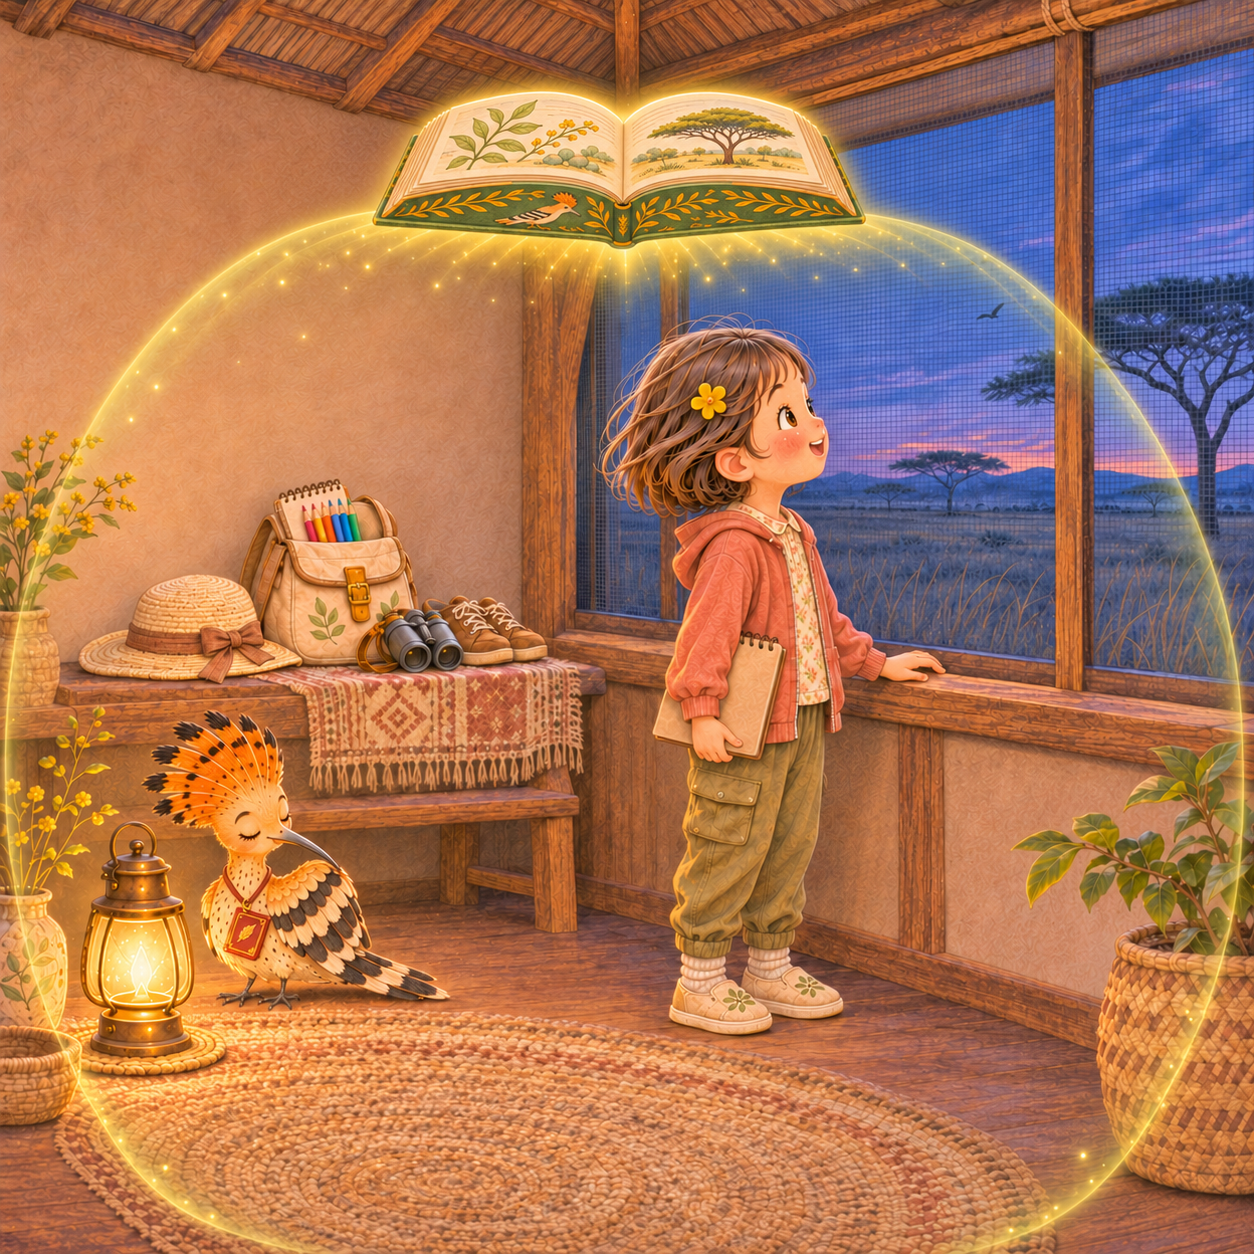
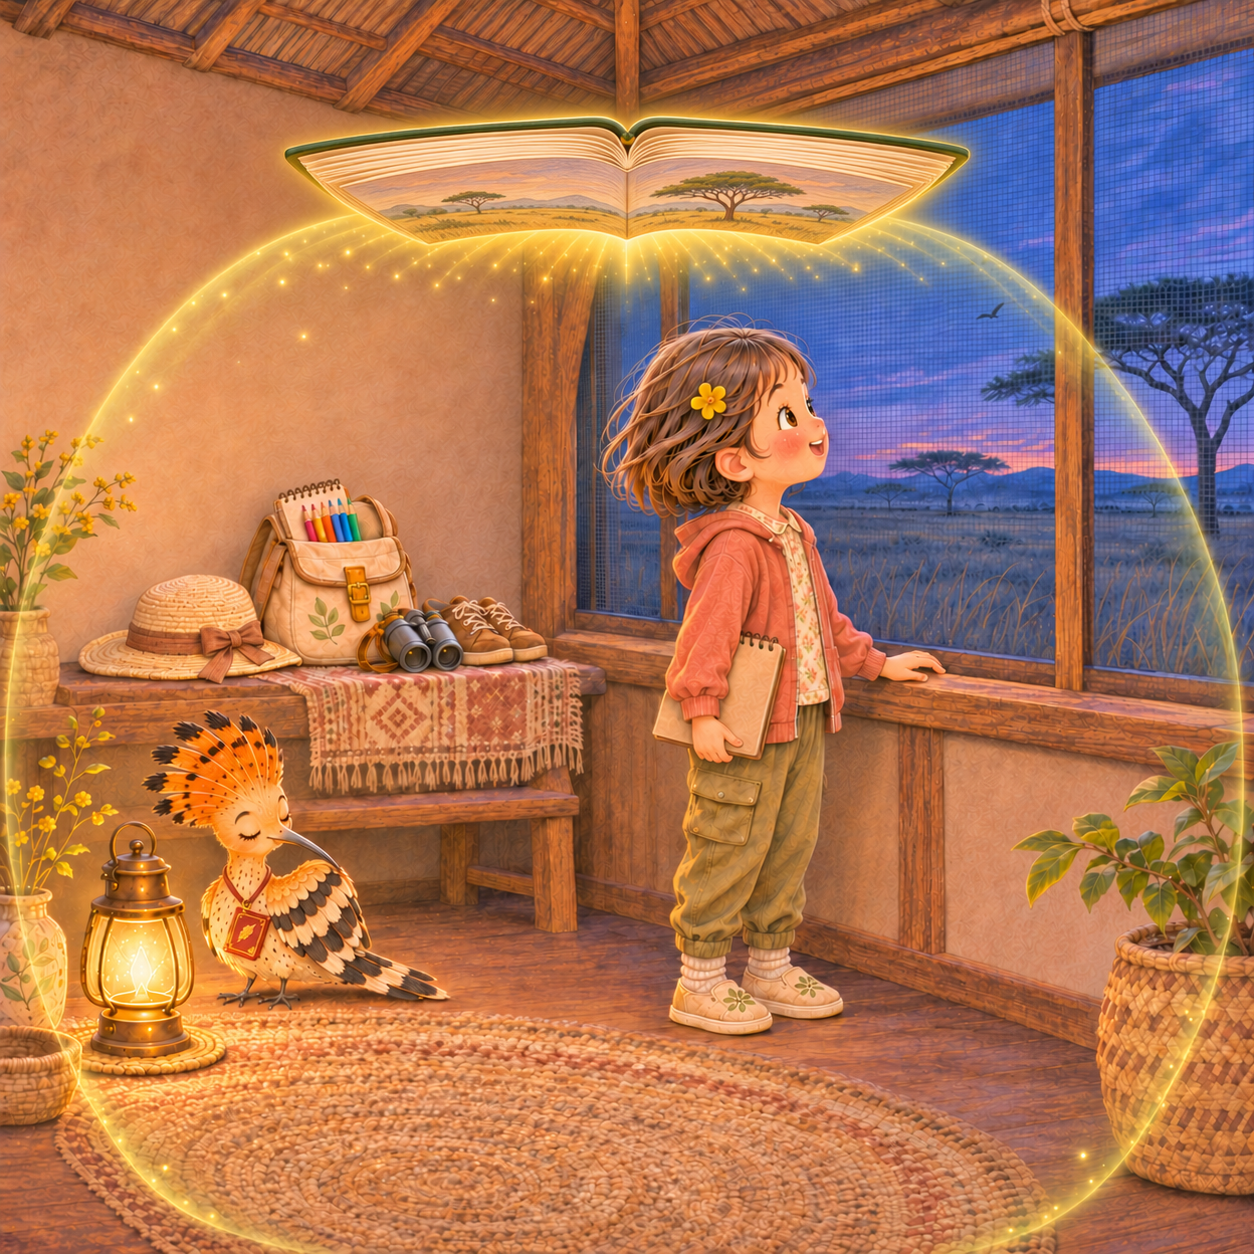
修正草原夜景魔法书透视

diff --git a/非洲草原绘本/制图剧本.md b/非洲草原绘本/制图剧本.md
@@ -31,7 +31,7 @@
 
 - **小满：** 5岁，沿用已确认的短黑褐发、圆润脸型、棕眼和儿童比例。浅棕色双肩布包里有笔记本、彩铅、饮水瓶、薄珊瑚色开衫和轻便室内鞋；本次增加一副儿童使用的轻便望远镜，挂带收束，不缠手腕和颈部。魔法书只在赶路时载着她，乘坐时坐稳在左右对称展开的书页中央；到达观察点后下到安全地面，魔法书缩小、收拢或停在身边，不让她站在书上观察动物。
 - **羽羽：** 金棕色戴胜鸟书精灵，细长微下弯黑喙、黑尖扇形羽冠、黑白横斑翅膀、书签状尾羽；细颈绳上的砖红金边羽叶纹小书挂件保持连续。羽羽是随书同行的角色，不充当草原所有野生鸟类的替身。她负责讲解和调整书签方向：草原小百科的知识由她讲给小满听，讲解时停在书页边、书脊或笔记本旁，用喙指点，长篇知识不连续倾倒。
-- **魔法书：** 同一本旧绿皮自然百科，可按需要自由改变大小。赶路时放大并平稳低飞，小满坐在中央；到达观察点后落稳，小满下到安全地面，书缩小或收拢，不充当持续观察台。所有展开状态都必须左右两部分等宽、等厚、角度对称，中间书槽清楚，不能一边大一边小或一边翘成单翼。白天赶路和观察不出现保护光罩。夜间P31—P35，魔法书放大后飞到休息室上方，对称展开并生成柔和、半透明的金绿色光罩，覆盖小满和羽羽；亮光收在罩内，不照射或惊扰野生动物。
+- **魔法书：** 同一本旧绿皮自然百科，可按需要自由改变大小。赶路时放大并平稳低飞，小满坐在中央；到达观察点后落稳，小满下到安全地面，书缩小或收拢，不充当持续观察台。所有展开状态都必须左右两部分等宽、等厚、角度对称，中间书槽清楚，不能一边大一边小或一边翘成单翼。白天赶路和观察不出现保护光罩。夜间P31—P35，魔法书放大后飞到休息室上方，近水平地倒悬展开，内页朝向下方的小满和羽羽，再从朝下的书槽与页缘生成柔和、半透明的金绿色光罩。儿童高度镜头只能看到有明显透视压缩的朝下内页；页内图画必须贴合左右纸面分别旋转、缩短和弯曲，不能像正对镜头的平面图标。绿色封皮位于页块背面，亮光收在罩内，不照射或惊扰野生动物。
 - **自然百科：** 旧绿皮、厚米白书页、叶形书签。P2出现纸上脚印与发光小路，带人物抵达草原营地；普通探索页仍为真实草原。书在P3、P13、P22和P30承担赶路，在P31—P35飞到室内上方生成夜间保护光罩；其余观察页缩小、收拢或安静停在人物身边。P36在营地收好笔记后，经书页绿光返回图书馆。
 - **观察设施：** 水塘远侧有固定观察屋，营地有封闭休息室和纱窗。魔法书在屋旁落稳，小满进入设施；不让小满无缘无故出现在野生动物身旁。
 
@@ -558,7 +558,7 @@
 
 **图内标题：** 第四章／草原没有睡着
 
-**画面建议：** 营地封闭休息室内，小满披上从布包中取出的薄珊瑚色开衫，换上轻便室内鞋，在纱窗前望向日落后的草原。魔法书改变大小，飞到室内上方，左右两部分等宽等厚、角度对称地展开，由上方向下生成半透明金绿色保护光罩，覆盖小满和羽羽；亮光收在罩内，不射向窗外。顶灯调暗，小灯放在室内矮桌，羽羽停在灯旁理着羽冠。天空从暖色渐转蓝紫，不将这一页画成白昼。室外只有草影和少量树影，不安排大型动物贴着窗子。
+**画面建议：** 营地封闭休息室内，小满披上从布包中取出的薄珊瑚色开衫，换上轻便室内鞋，在纱窗前望向日落后的草原。魔法书改变大小，飞到室内上方，近水平地倒悬并左右对称展开：内页朝下，左右页块等宽等厚、角度对称，中央书槽居中，绿色封皮位于页块背面。儿童高度仰视只能看见经过透视压缩的朝下内页，页内自然图画贴合各自纸面透视，不能正面朝向镜头。半透明金绿色保护光罩从朝下的书槽与页缘向下展开，覆盖小满和羽羽；亮光收在罩内，不射向窗外。顶灯调暗，小灯放在室内矮桌，羽羽停在灯旁理着羽冠。天空从暖色渐转蓝紫，不将这一页画成白昼。室外只有草影和少量树影，不安排大型动物贴着窗子。
 
 **绘本文字：**
 
@@ -622,7 +622,7 @@
 
 **图内标题：** 雨点落下来的时候
 
-**画面建议：** 夜间短雨终于落下，小满与羽羽仍在有屋顶和纱窗的休息室内。魔法书继续悬浮在上方，保持左右对称展开，保护光罩持续覆盖休息区域。屋檐滴水、近处土路渐湿，远处草地保持原有干黄与暗绿，不瞬间铺成嫩绿地毯。小满把本子翻回水塘地图，铅笔指向纸上的水面；书光渐亮，为回程准备。
+**画面建议：** 夜间短雨终于落下，小满与羽羽仍在有屋顶和纱窗的休息室内。魔法书继续悬浮在上方，保持内页朝下、左右对称的倒悬展开状态，保护光罩从书槽与页缘向下覆盖休息区域。屋檐滴水、近处土路渐湿，远处草地保持原有干黄与暗绿，不瞬间铺成嫩绿地毯。小满把本子翻回水塘地图，铅笔指向纸上的水面；书光渐亮，为回程准备。
 
 **绘本文字：**
 
@@ -734,7 +734,7 @@
 - 核对P1封面与正文时间分开，P2实际换装、P3乘魔法书出发；P30回营、P31日落、P35夜雨、P36夜间回家、P39次日清晨顺序明确。
 - 核对P4的初始地面线索、P5—P11的比较与P23的汇合揭晓，不在封面提前做任务，不把所有脚印归为同一时刻。
 - 核对小满和羽羽的身份连续性；小满只在P3、P13、P22与P30乘书赶路，观察动物时落到安全地面或进入观察屋。身体、头脸与双眼共同指向观察对象；双手分别检查五指结构、掌腕连接和持物接触。
-- 核对魔法书封面、书脊、叶形书签与大小变化逻辑；所有展开状态左右等宽等厚、角度对称、中央书槽清楚。白天不出现保护光罩，P31—P35由悬浮在上方的魔法书生成夜间光罩。
+- 核对魔法书封面、书脊、叶形书签与大小变化逻辑；所有展开状态左右等宽等厚、角度对称、中央书槽清楚。白天不出现保护光罩；P31—P35中书本近水平倒悬、内页朝下，儿童高度镜头看到的是透视压缩的纸面，页内图画与左右页各自的倾斜和弯曲一致，夜间光罩从朝下的书槽与页缘生成。
 - 核对魔法书、叶形书签、浅棕布包、笔记本、彩铅和望远镜等固定道具跨页造型一致，不因页面变化换款、变色、复制或随意改变相对比例。服装、帽子与鞋按场景换装，并核对同一连续场景的衔接。
 - 核对平原斑马单蹄、偶蹄动物的两瓣蹄、马赛鸵鸟每脚两趾；不把“动物的手指结构”统一套成人手五指。
 - 核对非洲草原象、马赛长颈鹿、蓝角马、黑斑羚、非洲水牛、马赛鸵鸟、红嘴牛椋鸟、红嘴奎利亚雀的物种外形与足部，避免多种动物混成一种。

diff --git a/skills/childrens-picturebook-illustration/SKILL.md b/skills/childrens-picturebook-illustration/SKILL.md
@@ -79,7 +79,7 @@ Apply these constraints to this project. The user's latest confirmed correction 
 Use the [formal savanna manuscript](../../非洲草原绘本/制图剧本.md), [savanna constraints](../../非洲草原绘本/制图约束规范.md), the shared character sheets and the user's latest corrections as the source of truth.
 
 - **Travel versus observation:** the magic book carries Xiaoman only on designated travel pages such as P3, P13, P22 and P30. At an animal observation point, Xiaoman steps onto safe ground or enters the fixed observation hut; the book shrinks, closes or rests nearby. Do not keep her standing on the book while observing wildlife, and do not add a daytime protection dome.
-- **Night protection:** on P31—P35 the magic book may freely change size, fly above the camp lounge and open symmetrically, then cast a soft semi-transparent golden-green dome downward over Xiaoman and Yuyu. Contain the light inside the dome so it does not shine through the screen window or disturb wildlife.
+- **Night protection and overhead perspective:** on P31—P35 the magic book may freely change size, fly above the camp lounge and hover nearly horizontal in an inverted open state, with inner pages facing downward toward Xiaoman and Yuyu. A child-height upward camera sees strongly foreshortened downward-facing pages, not a front-facing book logo. Page illustrations must rotate, shorten and curve with each page plane; the green covers sit behind the page blocks. Cast the soft semi-transparent golden-green dome from the downward-facing gutter and page edges, and contain the light inside so it does not shine through the screen window or disturb wildlife.
 - **Symmetric open-book lock:** whenever the book is open, its left and right page blocks must be equal in width, thickness and opening angle, with a centered readable gutter, matching layered page edges and continuous thin green covers. Reject a one-wing shape, mismatched halves, twisted spine or one side larger than the other.
 - **Gaze and body axis:** lock the actual observation target before drawing. Align feet or seated support, pelvis, chest, shoulders, neck, chin and both pupils toward that target as the pose requires; do not rotate only the eyes or head. Check the full composition and an enlarged face crop.
 - **Hands and fixed props:** inspect each hand enlarged for four fingers plus one thumb, plausible occlusion, correct palm/wrist connection and believable contact. Lock one cross-page model for true recurring props: the green magic book and leaf bookmark, tan backpack, notebook, colored pencils and binoculars; only perspective and distance may change their apparent size. If a project uses the confirmed recorder, it is also a fixed prop and must retain the same body, furry windscreen, controls and hand-to-device scale. Clothing, hats, outerwear and footwear may change with habitat, weather and activity; require continuity only within the same uninterrupted scene or outfit sequence.

diff --git a/非洲草原绘本/制图约束规范.md b/非洲草原绘本/制图约束规范.md
@@ -8,7 +8,7 @@
 - 不出现老虎、亚洲象、袋鼠、南美金刚鹦鹉，不把沙漠或热带密林物种随意搬到开放草原。
 - 小满保持5岁身份、脸型、短发和黄花发夹，衣着、鞋帽按剧本所定天气、路线与活动；羽羽保持戴胜鸟物种特征、书签尾及砖红金边小书挂件。
 - 魔法书只在P3、P13、P22和P30等赶路场景承担乘坐功能。到达观察点后，小满落到安全地面，书缩小、收拢或停在身边；观察动物时不站在魔法书上，白天不出现保护光罩。
-- 夜间P31—P35，魔法书可自由改变大小并飞到休息室上方，左右对称展开后向下生成半透明金绿色保护光罩。亮光收在罩内，不照射窗外或惊扰野生动物。
+- 夜间P31—P35，魔法书可自由改变大小并飞到休息室上方，近水平倒悬、内页朝下并左右对称展开，再由朝下的书槽与页缘生成半透明金绿色保护光罩。儿童高度镜头只看见有明显透视压缩的朝下内页；页内图画服从左右页各自的倾斜、弯曲与缩短，禁止画成正对镜头的平面图标。绿色封皮位于页块背面，亮光收在罩内，不照射窗外或惊扰野生动物。
 - 魔法书每次展开时，左右两部分必须等宽、等厚、角度对称，中间书槽清楚，纸页堆与薄绿封皮结构连续；禁止一边大一边小、一边翘起成单翼或书脊错位。
 - 每页先确定观察对象的左右、高低和距离，再同步调整小满的肩胸、腰胯、头颈、下巴及双眼瞳孔；不能只转头或只挪眼珠。双手分别按四指加拇指的五指结构检查，允许自然遮挡，不得多指、少指、融合或掌腕断裂。
 - 固定道具跨页锁定同一模型：旧绿皮魔法书、叶形书签、浅棕布包、笔记本、彩铅和轻便望远镜不得换款、变色、复制或无理由改变相对比例。服装、帽子、鞋与开衫根据天气、场景和活动更换，不作为全书固定道具；只需保证同一连续场景内的换装逻辑和前后衔接。

diff --git a/非洲草原绘本/正式素材/README.md b/非洲草原绘本/正式素材/README.md
@@ -5,11 +5,11 @@
 | 页码 | 页面 | 无字原图 | 状态 |
 |---|---|---|---|
 | P6 | 长腿从树后出现 | [无字图-1254px.png](P6｜长腿从树后出现/无字图-1254px.png) | 小满落地观察；白天无光罩；羽羽停在布包上 |
-| P31 | 第四章：草原没有睡着 | [无字图-1254px.png](P31｜第四章：草原没有睡着/无字图-1254px.png) | 魔法书在室内上方对称展开并生成夜间光罩 |
+| P31 | 第四章：草原没有睡着 | [无字图-1254px.png](P31｜第四章：草原没有睡着/无字图-1254px.png) | 魔法书在室内上方倒悬、内页朝下并对称展开，生成夜间光罩 |
 
 ## 文件校验
 
[3 lines of base64/hex data omitted]
 
 后续页面继续锁定小满与羽羽形象、固定道具模型、人物视线和身体轴线、双手五指结构，以及魔法书左右对称展开规则。
